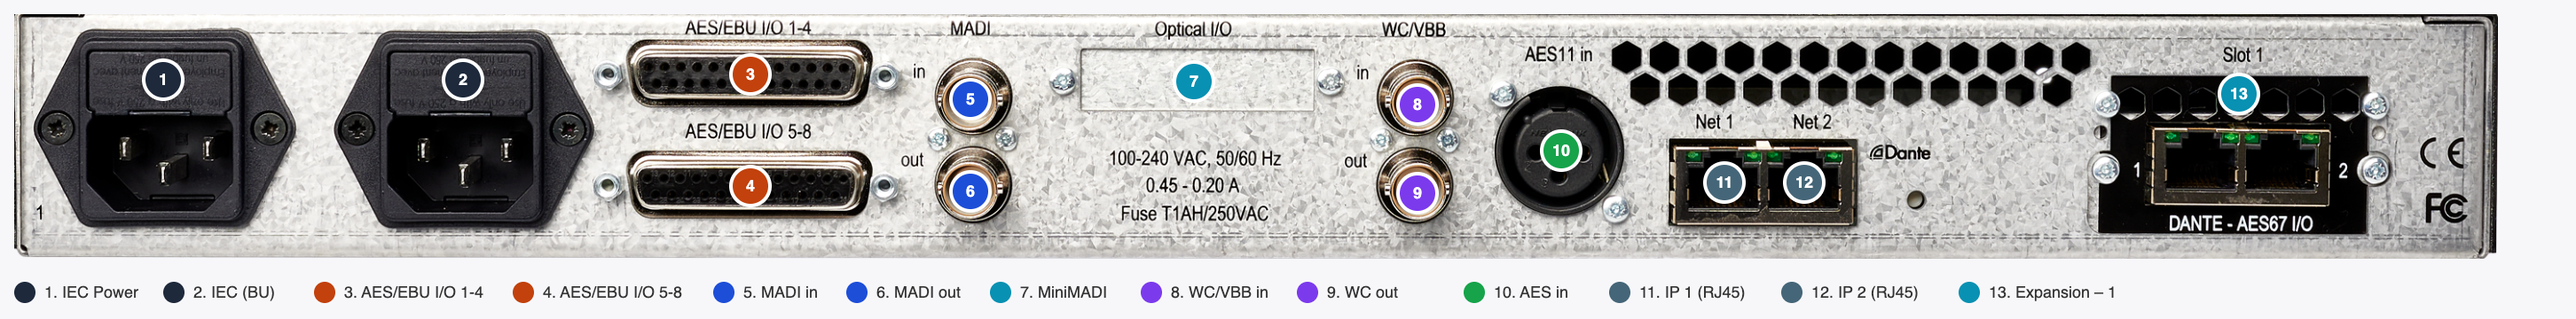
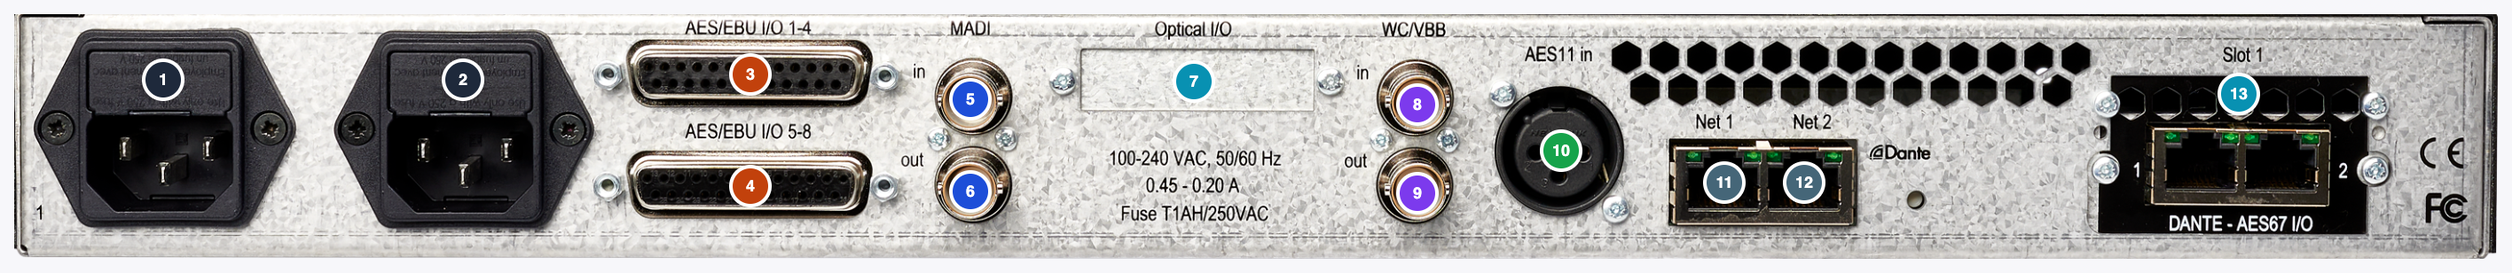
ch02: replace embedded legend with colored HTML dots in tables
- Remove legend strips from all panel images (legend: null in screenshot-panels.mjs)
- MOM now captures face only (panel: MOM Face) instead of whole section
- Colorize all gray (#6B7280) callout circles in index.tsx with semantic colors:
  Logo=#2563EB, Power=#1F2937, Int.LED=#10B981, Ext.LED=#0EA5E9,
  Err.LED=#F97316, P48=#84CC16, MicLED=#D946EF, InstLED=#F43F5E,
  StatusLEDs=#4F46E5, StatLED=#A78BFA
- Replace Dot column text values (Grey, Red, Purple, Dark, Cyan, etc.)
  with inline HTML colored dot spans across all four ch02 files
- Fix AX64 Fig 2.1 caption to remove stale legend strip reference
- Rebuild React app and regenerate all 10 panel PNGs

diff --git a/dadman-docs/docs/hardware/ax-center/ch02-panel-description.md b/dadman-docs/docs/hardware/ax-center/ch02-panel-description.md
@@ -18,18 +18,18 @@ sidebar_position: 3
 
 | Ref | Label | Type | Function | Dot |
 |-----|-------|------|----------|-----|
-| 1 | **DAD** | Illuminated logo | Blue illumination; indicates power-on | — |
-| 2 | **Power** | Illuminated push-button | Initiates controlled power-on/shutdown sequence. Hold for 5 s to force power off. | Grey |
-| 3 | **Int.** | LED indicator | Lit when the unit is locked to its own internal clock reference | — |
-| 4 | **Ext.** | LED indicator (green) | Lit when the unit is locked to an external clock source (word clock, MADI, ADAT, or Dante) | — |
-| 5 | **Err.** | LED indicator (red) | Lit when a clock error, sync loss, or internal fault is detected. See [Section 2.3](#23-led-state-reference). | — |
-| 6 | **Mic/Inst 1** | Combo XLR/TRS (locking) | Mic/line/instrument input, channel 1. Accepts XLR (balanced mic/line) or 6.35 mm TRS/TS (line/instrument). | Red |
-| 7 | **P48** | LED indicator | Lit when phantom power (+48 V) is active on this input channel | — |
-| 8 | **Mic** | LED indicator | Lit when the input is configured as a microphone input | — |
-| 9 | **Inst** | LED indicator | Lit when the input is configured as a high-impedance instrument input | — |
-| 10 | **Mic/Inst 2** | Combo XLR/TRS (locking) | Mic/line/instrument input, channel 2. Same specification as channel 1. | Red |
-| 11 | **HP 1** | 6.35 mm TRS jack | Headphone output 1. Level controlled via DADman or MOM. | Purple |
-| 12 | **HP 2** | 6.35 mm TRS jack | Headphone output 2. Level controlled via DADman or MOM. | Purple |
+| 1 | **DAD** | Illuminated logo | Blue illumination; indicates power-on | <span style="display:inline-block;width:10px;height:10px;border-radius:50%;background:#2563EB"></span> |
+| 2 | **Power** | Illuminated push-button | Initiates controlled power-on/shutdown sequence. Hold for 5 s to force power off. | <span style="display:inline-block;width:10px;height:10px;border-radius:50%;background:#1F2937"></span> |
+| 3 | **Int.** | LED indicator | Lit when the unit is locked to its own internal clock reference | <span style="display:inline-block;width:10px;height:10px;border-radius:50%;background:#10B981"></span> |
+| 4 | **Ext.** | LED indicator (green) | Lit when the unit is locked to an external clock source (word clock, MADI, ADAT, or Dante) | <span style="display:inline-block;width:10px;height:10px;border-radius:50%;background:#0EA5E9"></span> |
+| 5 | **Err.** | LED indicator (red) | Lit when a clock error, sync loss, or internal fault is detected. See [Section 2.3](#23-led-state-reference). | <span style="display:inline-block;width:10px;height:10px;border-radius:50%;background:#F97316"></span> |
+| 6 | **Mic/Inst 1** | Combo XLR/TRS (locking) | Mic/line/instrument input, channel 1. Accepts XLR (balanced mic/line) or 6.35 mm TRS/TS (line/instrument). | <span style="display:inline-block;width:10px;height:10px;border-radius:50%;background:#DC2626"></span> |
+| 7 | **P48** | LED indicator | Lit when phantom power (+48 V) is active on this input channel | <span style="display:inline-block;width:10px;height:10px;border-radius:50%;background:#84CC16"></span> |
+| 8 | **Mic** | LED indicator | Lit when the input is configured as a microphone input | <span style="display:inline-block;width:10px;height:10px;border-radius:50%;background:#D946EF"></span> |
+| 9 | **Inst** | LED indicator | Lit when the input is configured as a high-impedance instrument input | <span style="display:inline-block;width:10px;height:10px;border-radius:50%;background:#F43F5E"></span> |
+| 10 | **Mic/Inst 2** | Combo XLR/TRS (locking) | Mic/line/instrument input, channel 2. Same specification as channel 1. | <span style="display:inline-block;width:10px;height:10px;border-radius:50%;background:#DC2626"></span> |
+| 11 | **HP 1** | 6.35 mm TRS jack | Headphone output 1. Level controlled via DADman or MOM. | <span style="display:inline-block;width:10px;height:10px;border-radius:50%;background:#9333EA"></span> |
+| 12 | **HP 2** | 6.35 mm TRS jack | Headphone output 2. Level controlled via DADman or MOM. | <span style="display:inline-block;width:10px;height:10px;border-radius:50%;background:#9333EA"></span> |
 
 ---
 
@@ -40,20 +40,20 @@ sidebar_position: 3
 
 | Ref | Label | Connector | Function | Dot |
 |-----|-------|-----------|----------|-----|
-| 1 | **Power** | IEC C14 inlet | Mains power input. 100–240 V AC, 50/60 Hz, auto-ranging internal PSU. Connect a standard IEC C13 power cable. | Dark |
-| 2 | **EXPANSION** (upper pair) | 2× SFP bay | DADLink / MADI optical expansion. Accepts SFP modules for connection to other DAD units via active optical fibre (DADLink cable) or for optical MADI I/O. | Cyan |
-| 3 | **NET 1 / NET 2** | 2× RJ45 + SFP bay | Ethernet control network (NET 1, NET 2: 100/1000BASE-T). The SFP bay below NET 1/NET 2 accepts an SFP module for optional fibre network connection. Connect NET 1 or NET 2 to your DADman control network — only one port is required for normal operation. | Slate |
-| 4 | **THUNDERBOLT 1** (upper) | USB-C (Thunderbolt 3) | Primary Thunderbolt 3 connection to the computer. Connect this port to the computer's Thunderbolt 3 or USB4 port using a 20 Gbps-rated cable. Carries up to 256 bi-directional audio channels at standard sample rates. | Amber |
-| 5 | **THUNDERBOLT 2** (lower) | USB-C (Thunderbolt 3) | Thunderbolt 3 daisy-chain / passthrough. Connect to the next Thunderbolt device in the chain. | Amber |
-| 6 | **WC/VBB IN** | BNC, 75 Ω | Word clock or Video Black Burst input. Accepts word clock (1×, 256×, or video sync formats). Engage the 75 Ω termination on the last device in a word clock chain. | Violet |
-| 7 | **WC OUT** | BNC, 75 Ω | Word clock output. Outputs the unit's current sync reference as a word clock signal. | Violet |
-| 8 | **MADI IN** | BNC, 75 Ω | MADI input (coaxial). Accepts AES10 MADI at 56- or 64-channel frame format. At 96 kHz, maximum channel count is 32. | Blue |
-| 9 | **MADI OUT** | BNC, 75 Ω | MADI output (coaxial). Transmits MADI at the configured frame format and sample rate. | Blue |
-| 10 | **ADAT OUT 1 / 2** | 2× TOSLINK (optical) | ADAT Lightpipe outputs. Up to 8 channels per port at 44.1/48 kHz; 4 channels per port at 88.2/96 kHz (S/MUX). | Teal |
-| 11 | **ADAT IN 1 / 2** | 2× TOSLINK (optical) | ADAT Lightpipe inputs. Same channel count as ADAT outputs. | Teal |
-| 12 | **MONITOR 1** | 2× TRS 6.35 mm (L/R) | Balanced stereo monitor output 1. Level controlled via DADman or MOM. | Red |
-| 13 | **MONITOR 2** | 2× TRS 6.35 mm (L/R) | Balanced stereo monitor output 2. Level controlled via DADman or MOM. | Red |
-| 14 | **SLOT 1 / SLOT 2** | 2× expansion slot (DB25) | Analogue I/O expansion slots. Each slot accepts a DAD expansion card providing 8 channels of A/D, D/A, or digital I/O. Card type and channel assignment is configured in DADman. | Yellow |
+| 1 | **Power** | IEC C14 inlet | Mains power input. 100–240 V AC, 50/60 Hz, auto-ranging internal PSU. Connect a standard IEC C13 power cable. | <span style="display:inline-block;width:10px;height:10px;border-radius:50%;background:#1E293B"></span> |
+| 2 | **EXPANSION** (upper pair) | 2× SFP bay | DADLink / MADI optical expansion. Accepts SFP modules for connection to other DAD units via active optical fibre (DADLink cable) or for optical MADI I/O. | <span style="display:inline-block;width:10px;height:10px;border-radius:50%;background:#0891B2"></span> |
+| 3 | **NET 1 / NET 2** | 2× RJ45 + SFP bay | Ethernet control network (NET 1, NET 2: 100/1000BASE-T). The SFP bay below NET 1/NET 2 accepts an SFP module for optional fibre network connection. Connect NET 1 or NET 2 to your DADman control network — only one port is required for normal operation. | <span style="display:inline-block;width:10px;height:10px;border-radius:50%;background:#456678"></span> |
+| 4 | **THUNDERBOLT 1** (upper) | USB-C (Thunderbolt 3) | Primary Thunderbolt 3 connection to the computer. Connect this port to the computer's Thunderbolt 3 or USB4 port using a 20 Gbps-rated cable. Carries up to 256 bi-directional audio channels at standard sample rates. | <span style="display:inline-block;width:10px;height:10px;border-radius:50%;background:#D97706"></span> |
+| 5 | **THUNDERBOLT 2** (lower) | USB-C (Thunderbolt 3) | Thunderbolt 3 daisy-chain / passthrough. Connect to the next Thunderbolt device in the chain. | <span style="display:inline-block;width:10px;height:10px;border-radius:50%;background:#D97706"></span> |
+| 6 | **WC/VBB IN** | BNC, 75 Ω | Word clock or Video Black Burst input. Accepts word clock (1×, 256×, or video sync formats). Engage the 75 Ω termination on the last device in a word clock chain. | <span style="display:inline-block;width:10px;height:10px;border-radius:50%;background:#7C3AED"></span> |
+| 7 | **WC OUT** | BNC, 75 Ω | Word clock output. Outputs the unit's current sync reference as a word clock signal. | <span style="display:inline-block;width:10px;height:10px;border-radius:50%;background:#7C3AED"></span> |
+| 8 | **MADI IN** | BNC, 75 Ω | MADI input (coaxial). Accepts AES10 MADI at 56- or 64-channel frame format. At 96 kHz, maximum channel count is 32. | <span style="display:inline-block;width:10px;height:10px;border-radius:50%;background:#1D4ED8"></span> |
+| 9 | **MADI OUT** | BNC, 75 Ω | MADI output (coaxial). Transmits MADI at the configured frame format and sample rate. | <span style="display:inline-block;width:10px;height:10px;border-radius:50%;background:#1D4ED8"></span> |
+| 10 | **ADAT OUT 1 / 2** | 2× TOSLINK (optical) | ADAT Lightpipe outputs. Up to 8 channels per port at 44.1/48 kHz; 4 channels per port at 88.2/96 kHz (S/MUX). | <span style="display:inline-block;width:10px;height:10px;border-radius:50%;background:#0D9488"></span> |
+| 11 | **ADAT IN 1 / 2** | 2× TOSLINK (optical) | ADAT Lightpipe inputs. Same channel count as ADAT outputs. | <span style="display:inline-block;width:10px;height:10px;border-radius:50%;background:#0D9488"></span> |
+| 12 | **MONITOR 1** | 2× TRS 6.35 mm (L/R) | Balanced stereo monitor output 1. Level controlled via DADman or MOM. | <span style="display:inline-block;width:10px;height:10px;border-radius:50%;background:#DC2626"></span> |
+| 13 | **MONITOR 2** | 2× TRS 6.35 mm (L/R) | Balanced stereo monitor output 2. Level controlled via DADman or MOM. | <span style="display:inline-block;width:10px;height:10px;border-radius:50%;background:#DC2626"></span> |
+| 14 | **SLOT 1 / SLOT 2** | 2× expansion slot (DB25) | Analogue I/O expansion slots. Each slot accepts a DAD expansion card providing 8 channels of A/D, D/A, or digital I/O. Card type and channel assignment is configured in DADman. | <span style="display:inline-block;width:10px;height:10px;border-radius:50%;background:#CA8A04"></span> |
 
 > **NOTICE — Thunderbolt cable requirement:** The Thunderbolt 3 connection requires a cable rated to 20 Gbps or higher. Standard USB-C cables are not rated for Thunderbolt 3 speeds and will not work reliably. Use the cable supplied with the unit or a certified Thunderbolt 3 / Thunderbolt 4 cable.
 

diff --git a/dadman-docs/docs/hardware/ax64/ch02-panel-description.md b/dadman-docs/docs/hardware/ax64/ch02-panel-description.md
@@ -14,17 +14,17 @@ sidebar_position: 3
 ## 2.1 Front Panel
 
 ![AX 64 front panel](/img/panel-ax64-front.png)
-*Figure 2.1 — AX 64 front panel. The legend strip below the panel identifies the Power button; clock reference LEDs are unlabelled.*
+*Figure 2.1 — AX 64 front panel. Numbered callouts correspond to the table below.*
 
 > **NOTICE:** The AX 64 front panel provides status indicators only. All audio I/O connections are made on the rear panel (Figure 2.2).
 
 | Ref | Label | Type | Function | Dot |
 |-----|-------|------|----------|-----|
-| 1 | **DAD** | Illuminated logo | Blue illumination; indicates power-on | — |
-| 2 | **Power** | Illuminated push-button | Initiates controlled power-on/shutdown sequence | Grey |
-| 3 | **Int.** | LED indicator | Lit when locked to internal clock reference | — |
-| 4 | **Ext.** | LED indicator (green) | Lit when locked to external clock source | — |
-| 5 | **Err.** | LED indicator (red) | Lit on clock error or internal fault. See [Section 2.3](#23-led-state-reference). | — |
+| 1 | **DAD** | Illuminated logo | Blue illumination; indicates power-on | <span style="display:inline-block;width:10px;height:10px;border-radius:50%;background:#2563EB"></span> |
+| 2 | **Power** | Illuminated push-button | Initiates controlled power-on/shutdown sequence | <span style="display:inline-block;width:10px;height:10px;border-radius:50%;background:#1F2937"></span> |
+| 3 | **Int.** | LED indicator | Lit when locked to internal clock reference | <span style="display:inline-block;width:10px;height:10px;border-radius:50%;background:#10B981"></span> |
+| 4 | **Ext.** | LED indicator (green) | Lit when locked to external clock source | <span style="display:inline-block;width:10px;height:10px;border-radius:50%;background:#0EA5E9"></span> |
+| 5 | **Err.** | LED indicator (red) | Lit on clock error or internal fault. See [Section 2.3](#23-led-state-reference). | <span style="display:inline-block;width:10px;height:10px;border-radius:50%;background:#F97316"></span> |
 
 ---
 
@@ -35,19 +35,19 @@ sidebar_position: 3
 
 | Ref | Label | Connector | Function | Dot |
 |-----|-------|-----------|----------|-----|
-| 1 | **Power** | IEC C14 inlet | Mains power input. 100–240 V AC, 50/60 Hz, auto-ranging. | Dark |
-| 1a | *(Optional)* | IEC C14 inlet | Redundant power supply inlet (factory-fitted option). | Cyan |
-| 2, 3 | **EXPANSION** | 2× SFP bay | DADLink / MADI optical expansion. Accepts SFP modules for DADLink or optical MADI I/O. | Cyan |
-| 4, 5 | **NET 1 / NET 2** | 2× RJ45 + SFP bay | Ethernet control network. Connect NET 1 or NET 2 to the DADman control network. | Slate |
-| 6 | **THUNDERBOLT 1** (upper) | USB-C (Thunderbolt 3) | Primary Thunderbolt 3 connection to the computer. | Amber |
-| 7 | **THUNDERBOLT 2** (lower) | USB-C (Thunderbolt 3) | Thunderbolt 3 daisy-chain / passthrough. | Amber |
-| 8 | **WC IN** | BNC, 75 Ω | Word clock input. | Violet |
-| 9 | **WC OUT** | BNC, 75 Ω | Word clock output. | Violet |
-| 10 | **MADI IN** | BNC, 75 Ω | MADI coaxial input. AES10 compliant. | Blue |
-| 11 | **MADI OUT** | BNC, 75 Ω | MADI coaxial output. | Blue |
-| 12, 14 | **ADAT OUT 1 / 2** | 2× TOSLINK (optical) | ADAT Lightpipe outputs. Up to 8 ch at 44.1/48 kHz; 4 ch at 88.2/96 kHz (S/MUX). | Teal |
-| 13, 15 | **ADAT IN 1 / 2** | 2× TOSLINK (optical) | ADAT Lightpipe inputs. | Teal |
-| 16–23 | **Slot 1 – Slot 8** | Up to 8× DB25 | Analogue expansion card slots. Each slot accepts one 8-channel DAD expansion card (A/D, D/A, or digital I/O). Slot numbering runs right to left as viewed from the rear (Slot 1 is rightmost). Card type and routing is configured in DADman. | Yellow |
+| 1 | **Power** | IEC C14 inlet | Mains power input. 100–240 V AC, 50/60 Hz, auto-ranging. | <span style="display:inline-block;width:10px;height:10px;border-radius:50%;background:#1E293B"></span> |
+| 1a | *(Optional)* | IEC C14 inlet | Redundant power supply inlet (factory-fitted option). | <span style="display:inline-block;width:10px;height:10px;border-radius:50%;background:#0891B2"></span> |
+| 2, 3 | **EXPANSION** | 2× SFP bay | DADLink / MADI optical expansion. Accepts SFP modules for DADLink or optical MADI I/O. | <span style="display:inline-block;width:10px;height:10px;border-radius:50%;background:#0891B2"></span> |
+| 4, 5 | **NET 1 / NET 2** | 2× RJ45 + SFP bay | Ethernet control network. Connect NET 1 or NET 2 to the DADman control network. | <span style="display:inline-block;width:10px;height:10px;border-radius:50%;background:#456678"></span> |
+| 6 | **THUNDERBOLT 1** (upper) | USB-C (Thunderbolt 3) | Primary Thunderbolt 3 connection to the computer. | <span style="display:inline-block;width:10px;height:10px;border-radius:50%;background:#D97706"></span> |
+| 7 | **THUNDERBOLT 2** (lower) | USB-C (Thunderbolt 3) | Thunderbolt 3 daisy-chain / passthrough. | <span style="display:inline-block;width:10px;height:10px;border-radius:50%;background:#D97706"></span> |
+| 8 | **WC IN** | BNC, 75 Ω | Word clock input. | <span style="display:inline-block;width:10px;height:10px;border-radius:50%;background:#7C3AED"></span> |
+| 9 | **WC OUT** | BNC, 75 Ω | Word clock output. | <span style="display:inline-block;width:10px;height:10px;border-radius:50%;background:#7C3AED"></span> |
+| 10 | **MADI IN** | BNC, 75 Ω | MADI coaxial input. AES10 compliant. | <span style="display:inline-block;width:10px;height:10px;border-radius:50%;background:#1D4ED8"></span> |
+| 11 | **MADI OUT** | BNC, 75 Ω | MADI coaxial output. | <span style="display:inline-block;width:10px;height:10px;border-radius:50%;background:#1D4ED8"></span> |
+| 12, 14 | **ADAT OUT 1 / 2** | 2× TOSLINK (optical) | ADAT Lightpipe outputs. Up to 8 ch at 44.1/48 kHz; 4 ch at 88.2/96 kHz (S/MUX). | <span style="display:inline-block;width:10px;height:10px;border-radius:50%;background:#0D9488"></span> |
+| 13, 15 | **ADAT IN 1 / 2** | 2× TOSLINK (optical) | ADAT Lightpipe inputs. | <span style="display:inline-block;width:10px;height:10px;border-radius:50%;background:#0D9488"></span> |
+| 16–23 | **Slot 1 – Slot 8** | Up to 8× DB25 | Analogue expansion card slots. Each slot accepts one 8-channel DAD expansion card (A/D, D/A, or digital I/O). Slot numbering runs right to left as viewed from the rear (Slot 1 is rightmost). Card type and routing is configured in DADman. | <span style="display:inline-block;width:10px;height:10px;border-radius:50%;background:#CA8A04"></span> |
 
 > **NOTICE — Expansion card slots:** Unpopulated slots are covered by a blanking plate. Do not remove blanking plates — they are required for correct airflow. Expansion cards must only be installed or removed with the unit powered off.
 

diff --git a/dadman-docs/docs/hardware/mom/ch02-panel-description.md b/dadman-docs/docs/hardware/mom/ch02-panel-description.md
@@ -18,20 +18,20 @@ sidebar_position: 3
 
 | Ref | Label | Type | Function | Dot |
 |-----|-------|------|----------|-----|
-| 1 | **Spkr. 1** | Illuminated push-button | Selects speaker output set 1 (e.g., main monitors). Corresponds to a speaker output set configured in the active Monitor Profile in DADman. | Cyan |
-| 2 | **Spkr. 2** | Illuminated push-button | Selects speaker output set 2 (e.g., near-field monitors). | Teal |
-| 3 | **Spkr. 3** | Illuminated push-button | Selects speaker output set 3 (e.g., translation speaker or Atmos bed). | Blue |
-| 4 | **Src. A** | Illuminated push-button | Selects monitoring source A as defined in the active Monitor Profile. | Amber |
-| 5 | **Src. B** | Illuminated push-button | Selects monitoring source B. | Orange |
-| 6 | **Src. C** | Illuminated push-button | Selects monitoring source C. | Yellow |
-| 7 | **Layer** | Illuminated push-button | Switches the MOM between control layers. Pressing Layer cycles through configured layers, reassigning Spkr. and Src. buttons. | Violet |
-| 8 | **Status LEDs 1–4** | LED indicators | Indicate the status of the four active monitoring layers or presets. Illuminated when the corresponding layer is active. | — |
-| 9 | **Stat.** | LED indicator (green) | MOM is connected to the AX Center / AX 64 and communicating correctly. Flashes during initialisation. Off when disconnected. | — |
-| 10 | **TB** | Push-button | Talkback. Routes the talkback microphone (configured in DADman) into the talent feeds while held. | Red |
-| 11 | **Ref** | Push-button | Reference level. Switches the monitor output to the calibrated reference level defined in the active Monitor Profile. Press again to return to the previous level. | Green |
-| 12 | **Cut** | Illuminated push-button | Cuts (mutes) the monitor output. Illuminates red when active. | Purple |
-| 13 | **Dim** | Illuminated push-button | Attenuates the monitor output by the Dim amount configured in the active Monitor Profile (typically −20 dB). Illuminates amber when active. | Slate |
-| 14 | **Level** | Rotary encoder with LED ring | Master monitor level control. Turn to adjust the output level. The LED ring indicates the current level position relative to the reference level. Range: approximately −40 dB to +6 dB relative to reference. | Dark |
+| 1 | **Spkr. 1** | Illuminated push-button | Selects speaker output set 1 (e.g., main monitors). Corresponds to a speaker output set configured in the active Monitor Profile in DADman. | <span style="display:inline-block;width:10px;height:10px;border-radius:50%;background:#0891B2"></span> |
+| 2 | **Spkr. 2** | Illuminated push-button | Selects speaker output set 2 (e.g., near-field monitors). | <span style="display:inline-block;width:10px;height:10px;border-radius:50%;background:#0D9488"></span> |
+| 3 | **Spkr. 3** | Illuminated push-button | Selects speaker output set 3 (e.g., translation speaker or Atmos bed). | <span style="display:inline-block;width:10px;height:10px;border-radius:50%;background:#1D4ED8"></span> |
+| 4 | **Src. A** | Illuminated push-button | Selects monitoring source A as defined in the active Monitor Profile. | <span style="display:inline-block;width:10px;height:10px;border-radius:50%;background:#D97706"></span> |
+| 5 | **Src. B** | Illuminated push-button | Selects monitoring source B. | <span style="display:inline-block;width:10px;height:10px;border-radius:50%;background:#C2410C"></span> |
+| 6 | **Src. C** | Illuminated push-button | Selects monitoring source C. | <span style="display:inline-block;width:10px;height:10px;border-radius:50%;background:#CA8A04"></span> |
+| 7 | **Layer** | Illuminated push-button | Switches the MOM between control layers. Pressing Layer cycles through configured layers, reassigning Spkr. and Src. buttons. | <span style="display:inline-block;width:10px;height:10px;border-radius:50%;background:#7C3AED"></span> |
+| 8 | **Status LEDs 1–4** | LED indicators | Indicate the status of the four active monitoring layers or presets. Illuminated when the corresponding layer is active. | <span style="display:inline-block;width:10px;height:10px;border-radius:50%;background:#4F46E5"></span> |
+| 9 | **Stat.** | LED indicator (green) | MOM is connected to the AX Center / AX 64 and communicating correctly. Flashes during initialisation. Off when disconnected. | <span style="display:inline-block;width:10px;height:10px;border-radius:50%;background:#A78BFA"></span> |
+| 10 | **TB** | Push-button | Talkback. Routes the talkback microphone (configured in DADman) into the talent feeds while held. | <span style="display:inline-block;width:10px;height:10px;border-radius:50%;background:#DC2626"></span> |
+| 11 | **Ref** | Push-button | Reference level. Switches the monitor output to the calibrated reference level defined in the active Monitor Profile. Press again to return to the previous level. | <span style="display:inline-block;width:10px;height:10px;border-radius:50%;background:#16A34A"></span> |
+| 12 | **Cut** | Illuminated push-button | Cuts (mutes) the monitor output. Illuminates red when active. | <span style="display:inline-block;width:10px;height:10px;border-radius:50%;background:#9333EA"></span> |
+| 13 | **Dim** | Illuminated push-button | Attenuates the monitor output by the Dim amount configured in the active Monitor Profile (typically −20 dB). Illuminates amber when active. | <span style="display:inline-block;width:10px;height:10px;border-radius:50%;background:#456678"></span> |
+| 14 | **Level** | Rotary encoder with LED ring | Master monitor level control. Turn to adjust the output level. The LED ring indicates the current level position relative to the reference level. Range: approximately −40 dB to +6 dB relative to reference. | <span style="display:inline-block;width:10px;height:10px;border-radius:50%;background:#1E293B"></span> |
 
 > **NOTICE — MOM and Monitor Profiles:** The functions of the Spkr., Src., and Layer buttons are determined by the Monitor Profile loaded in DADman. Configure Monitor Profiles before using the MOM in a session. See [Ch. 8 — Advanced Features, Section 8.1 — Monitor Profiles].
 

diff --git a/dadman-docs/docs/hardware/core-256/ch02-panel-description.md b/dadman-docs/docs/hardware/core-256/ch02-panel-description.md
@@ -20,11 +20,11 @@ sidebar_position: 3
 
 | Ref | Label | Type | Function | Dot |
 |-----|-------|------|----------|-----|
-| 1 | **DAD** | Illuminated logo | Blue illumination; indicates power-on | — |
-| 2 | **Power** | Illuminated push-button | Initiates controlled power-on/shutdown sequence | — |
-| 3 | **Int.** | LED indicator | Lit when locked to internal clock reference | — |
-| 4 | **Ext.** | LED indicator (green) | Lit when locked to external clock source | — |
-| 5 | **Err.** | LED indicator (red) | Lit on clock error or internal fault. See [Section 2.3](#23-led-state-reference). | — |
+| 1 | **DAD** | Illuminated logo | Blue illumination; indicates power-on | <span style="display:inline-block;width:10px;height:10px;border-radius:50%;background:#2563EB"></span> |
+| 2 | **Power** | Illuminated push-button | Initiates controlled power-on/shutdown sequence | <span style="display:inline-block;width:10px;height:10px;border-radius:50%;background:#1F2937"></span> |
+| 3 | **Int.** | LED indicator | Lit when locked to internal clock reference | <span style="display:inline-block;width:10px;height:10px;border-radius:50%;background:#10B981"></span> |
+| 4 | **Ext.** | LED indicator (green) | Lit when locked to external clock source | <span style="display:inline-block;width:10px;height:10px;border-radius:50%;background:#0EA5E9"></span> |
+| 5 | **Err.** | LED indicator (red) | Lit on clock error or internal fault. See [Section 2.3](#23-led-state-reference). | <span style="display:inline-block;width:10px;height:10px;border-radius:50%;background:#F97316"></span> |
 
 ---
 
@@ -45,17 +45,17 @@ All other rear-panel connectors (EXPANSION / SFP bays, NET 1/NET 2, THUNDERBOLT 
 
 | Ref | Label | Connector | Function | Dot |
 |-----|-------|-----------|----------|-----|
-| 1 | **Power** | 12 V DC barrel | DC power input. Connect the supplied external 12 V power supply. Do not substitute with a third-party supply. | Dark |
-| 2 | **EXPANSION** | 2× SFP bay | DADLink / MADI optical expansion. Identical to AX Center. | Cyan |
-| 3 | **NET 1 / NET 2** | 2× RJ45 + SFP bay | Ethernet control network (100/1000BASE-T) + optional SFP fibre. Identical to AX Center. | Slate |
-| 4 | **THUNDERBOLT 1** (upper) | USB-C (Thunderbolt 3) | Primary Thunderbolt 3 connection to the computer. | Amber |
-| 5 | **THUNDERBOLT 2** (lower) | USB-C (Thunderbolt 3) | Thunderbolt 3 daisy-chain / passthrough. | Amber |
-| 6 | **WC/VBB IN** | BNC, 75 Ω | Word clock or Video Black Burst input. | Violet |
-| 7 | **WC OUT** | BNC, 75 Ω | Word clock output. | Violet |
-| 8 | **MADI IN** | BNC, 75 Ω | MADI input (coaxial). AES10 compliant. | Blue |
-| 9 | **MADI OUT** | BNC, 75 Ω | MADI output (coaxial). | Blue |
-| 10 | **ADAT OUT 1 / 2** | 2× TOSLINK (optical) | ADAT Lightpipe outputs. Up to 8 ch at 44.1/48 kHz; 4 ch at 88.2/96 kHz (S/MUX). | Teal |
-| 11 | **ADAT IN 1 / 2** | 2× TOSLINK (optical) | ADAT Lightpipe inputs. Same channel count as ADAT outputs. | Teal |
+| 1 | **Power** | 12 V DC barrel | DC power input. Connect the supplied external 12 V power supply. Do not substitute with a third-party supply. | <span style="display:inline-block;width:10px;height:10px;border-radius:50%;background:#1E293B"></span> |
+| 2 | **EXPANSION** | 2× SFP bay | DADLink / MADI optical expansion. Identical to AX Center. | <span style="display:inline-block;width:10px;height:10px;border-radius:50%;background:#0891B2"></span> |
+| 3 | **NET 1 / NET 2** | 2× RJ45 + SFP bay | Ethernet control network (100/1000BASE-T) + optional SFP fibre. Identical to AX Center. | <span style="display:inline-block;width:10px;height:10px;border-radius:50%;background:#456678"></span> |
+| 4 | **THUNDERBOLT 1** (upper) | USB-C (Thunderbolt 3) | Primary Thunderbolt 3 connection to the computer. | <span style="display:inline-block;width:10px;height:10px;border-radius:50%;background:#D97706"></span> |
+| 5 | **THUNDERBOLT 2** (lower) | USB-C (Thunderbolt 3) | Thunderbolt 3 daisy-chain / passthrough. | <span style="display:inline-block;width:10px;height:10px;border-radius:50%;background:#D97706"></span> |
+| 6 | **WC/VBB IN** | BNC, 75 Ω | Word clock or Video Black Burst input. | <span style="display:inline-block;width:10px;height:10px;border-radius:50%;background:#7C3AED"></span> |
+| 7 | **WC OUT** | BNC, 75 Ω | Word clock output. | <span style="display:inline-block;width:10px;height:10px;border-radius:50%;background:#7C3AED"></span> |
+| 8 | **MADI IN** | BNC, 75 Ω | MADI input (coaxial). AES10 compliant. | <span style="display:inline-block;width:10px;height:10px;border-radius:50%;background:#1D4ED8"></span> |
+| 9 | **MADI OUT** | BNC, 75 Ω | MADI output (coaxial). | <span style="display:inline-block;width:10px;height:10px;border-radius:50%;background:#1D4ED8"></span> |
+| 10 | **ADAT OUT 1 / 2** | 2× TOSLINK (optical) | ADAT Lightpipe outputs. Up to 8 ch at 44.1/48 kHz; 4 ch at 88.2/96 kHz (S/MUX). | <span style="display:inline-block;width:10px;height:10px;border-radius:50%;background:#0D9488"></span> |
+| 11 | **ADAT IN 1 / 2** | 2× TOSLINK (optical) | ADAT Lightpipe inputs. Same channel count as ADAT outputs. | <span style="display:inline-block;width:10px;height:10px;border-radius:50%;background:#0D9488"></span> |
 | 12 | **SLOT 1 / SLOT 2** | 2× expansion slot (DB25) | Analogue I/O expansion slots. Each accepts one 8-channel DAD expansion card. | — |
 
 ---
